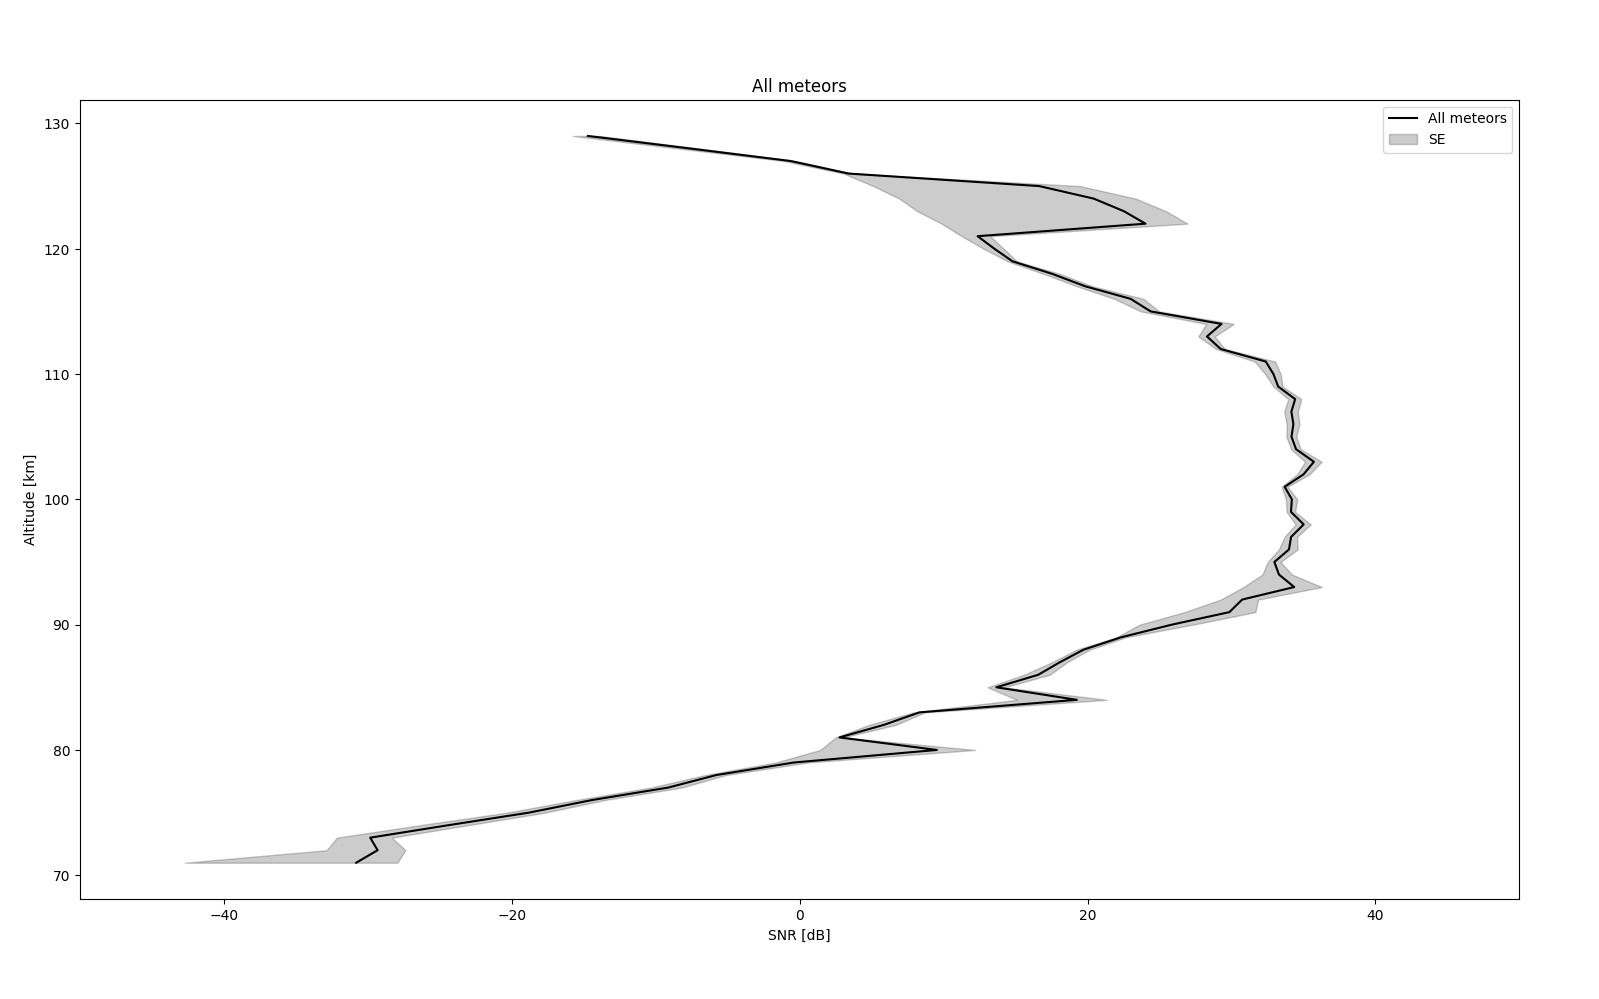
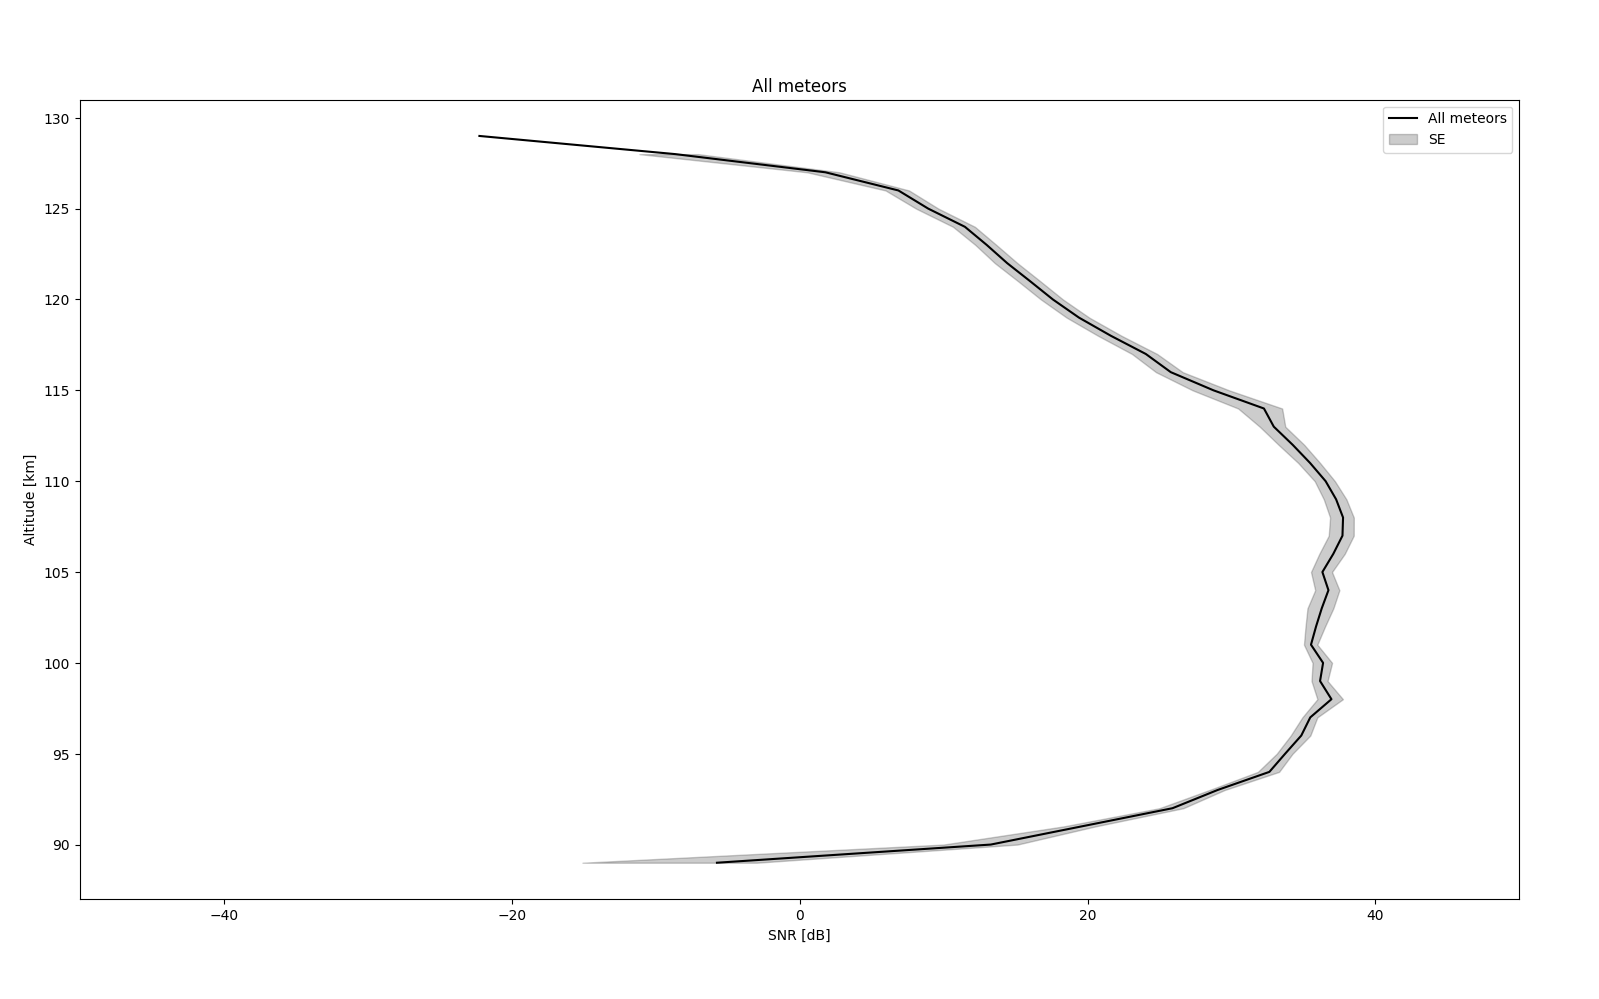
afghj

diff --git a/compare.py b/compare.py
@@ -210,7 +210,7 @@ if True:
     all_nodrop = all_nodrop[1:,:]
     # remove outlier by zeroing out the top 3 values at each altitude
     for i in range(61):
-        for j in range(3):
+        for j in range(2):
             max_arg = np.argmax(all_drop[:,i])
             all_drop[max_arg,i] = 0
             max_arg = np.argmax(all_nodrop[:,i])
@@ -224,9 +224,9 @@ if True:
     fig = plt.figure(figsize=(16,10))
     ax = fig.add_axes([0.05,0.1, 0.9, 0.8])
     ax.plot(10*np.log10(mean_drop), alt, label='Drop', color='blue', linestyle='-')
-    ax.fill_betweenx(alt, 10*np.log10(mean_drop-se_drop), 10*np.log10(mean_drop+se_drop), color='blue', alpha=0.2, label='SE')
+    ax.fill_betweenx(alt, 10*np.log10(mean_drop-se_drop), 10*np.log10(mean_drop+se_drop), color='blue', alpha=0.2, label='95% CI')
     ax.plot(10*np.log10(mean_nodrop), alt, label='No Drop', color='k', linestyle='-')
-    ax.fill_betweenx(alt, 10*np.log10(mean_nodrop-se_nodrop), 10*np.log10(mean_nodrop+se_nodrop), color='k', alpha=0.2, label='SE')
+    ax.fill_betweenx(alt, 10*np.log10(mean_nodrop-se_nodrop), 10*np.log10(mean_nodrop+se_nodrop), color='k', alpha=0.2, label='95% CI')
     ax.set_xlabel('SNR [dB]')
     ax.set_ylabel('Altitude [km]')
     ax.set_title(f'All meteors')
@@ -249,7 +249,7 @@ if True:
     plt.show()
 
 
-    """fig = plt.figure(figsize=(16,10))
+    fig = plt.figure(figsize=(16,10))
     ax = fig.add_axes([0.05,0.1, 0.9, 0.8])
     for i in tqdm(range(len(all_nodrop))):
         ax.plot(10*np.log10(all_nodrop[i]), alt, color='k', alpha=0.1)
@@ -258,6 +258,23 @@ if True:
     ax.set_title(f'All meteors')
     ax.set_xlim(0, 100)
     plt.show()
-    plt.close()"""
+    plt.close()
+
+    # create a histogram of how many detections there are at each altitude
+    altitudes = []
+    for i in range(len(all_drop)):
+        for j in range(len(all_drop[i])):
+            if all_drop[i][j] > 0:
+                altitudes.append(alt[j])
+    altitudes = np.array(altitudes)
+    fig = plt.figure(figsize=(16,10))
+    ax = fig.add_axes([0.05,0.1, 0.9, 0.8])
+    lab = np.unique(altitudes)
+    ax.hist(altitudes, bins=len(lab), color='k', alpha=1, orientation='horizontal')
+    ax.set_ylabel('Altitude [km]')
+    ax.set_xlabel('Number of detections')
+    ax.set_title(f'All meteors')
+
+    plt.show()
 
 
